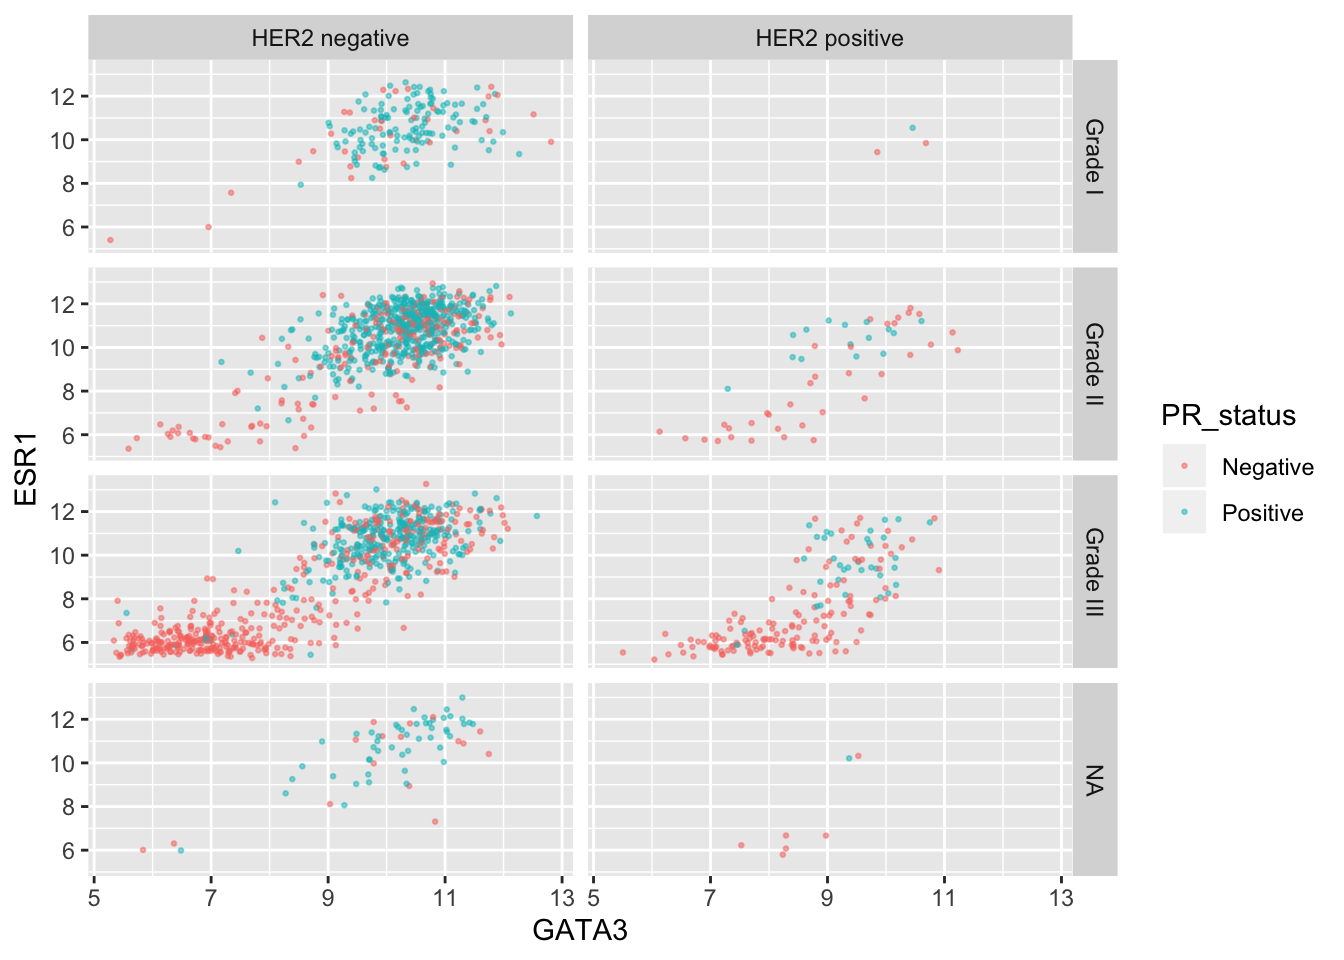
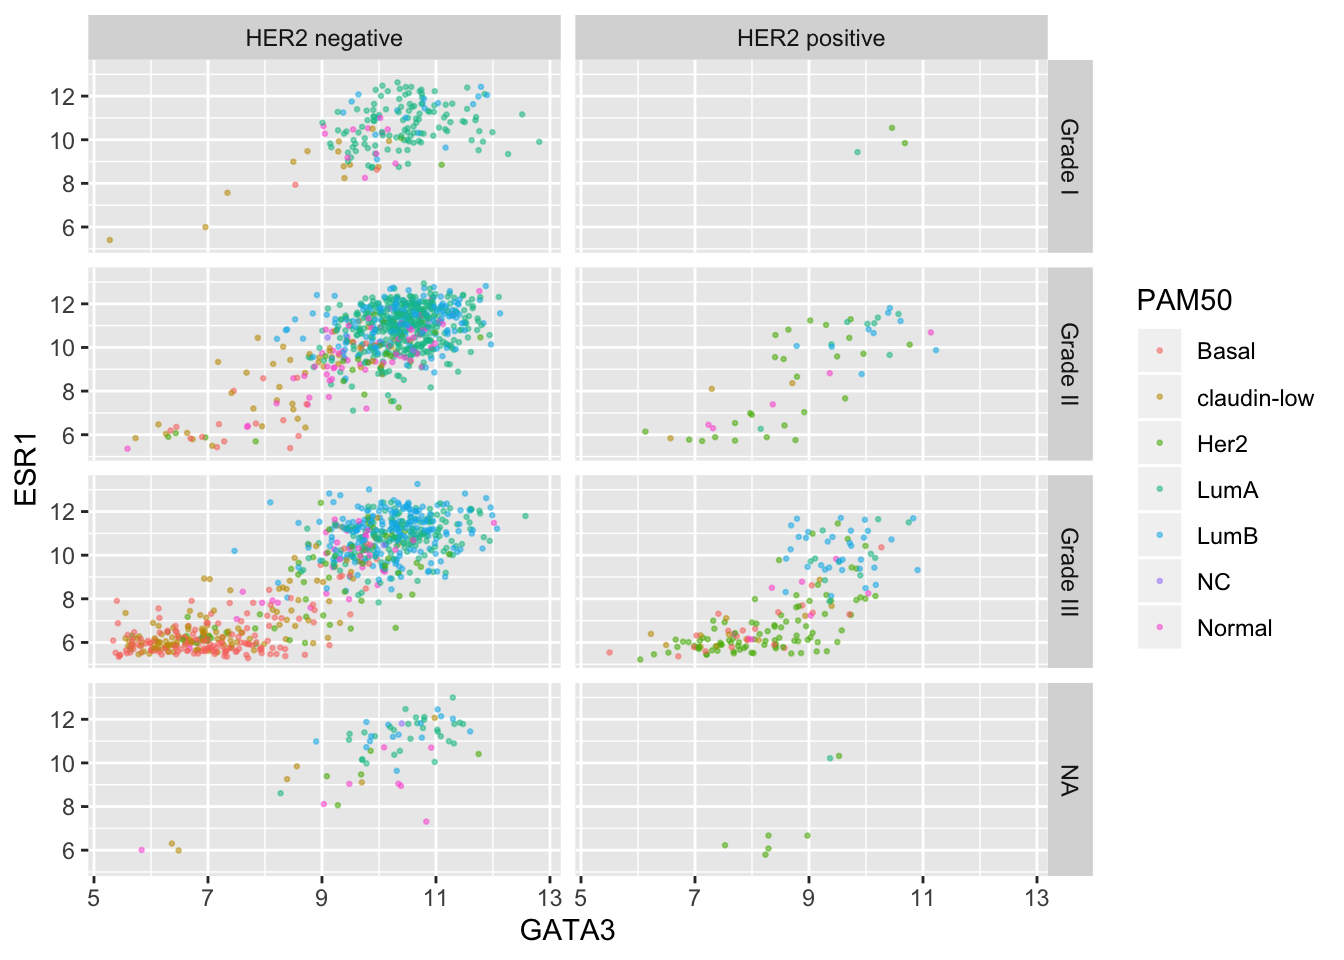
Faceted by PAM50 instead of PR status for final two facet_grid plots.

diff --git a/docs/week4.html b/docs/week4.html
@@ -1387,7 +1387,7 @@ Note the <code>first()</code>, <code>last()</code> and <code>n()</code> are only
   facet_grid(Neoplasm_histologic_grade ~ HER2_status)</code></pre>
 <p><img src="week4_files/figure-html/scatter_plot_10-1.png" width="672" /></p>
 <p>Again we can use colour aesthetics alongside faceting to add further information to our visualization.</p>
-<pre class="r"><code>ggplot(data = metabric, mapping = aes(x = GATA3, y = ESR1, colour = PR_status)) +
+<pre class="r"><code>ggplot(data = metabric, mapping = aes(x = GATA3, y = ESR1, colour = PAM50)) +
   geom_point(size = 0.5, alpha = 0.5) +
   facet_grid(Neoplasm_histologic_grade ~ HER2_status)</code></pre>
 <p><img src="week4_files/figure-html/scatter_plot_11-1.png" width="672" /></p>
@@ -1395,7 +1395,7 @@ Note the <code>first()</code>, <code>last()</code> and <code>n()</code> are only
 <pre class="r"><code>grade_labels &lt;- c(&quot;1&quot; = &quot;Grade I&quot;, &quot;2&quot; = &quot;Grade II&quot;, &quot;3&quot; = &quot;Grade III&quot;)
 her2_status_labels &lt;- c(&quot;Positive&quot; = &quot;HER2 positive&quot;, &quot;Negative&quot; = &quot;HER2 negative&quot;)
 
-ggplot(data = metabric, mapping = aes(x = GATA3, y = ESR1, colour = PR_status)) +
+ggplot(data = metabric, mapping = aes(x = GATA3, y = ESR1, colour = PAM50)) +
   geom_point(size = 0.5, alpha = 0.5) +
   facet_grid(Neoplasm_histologic_grade ~ HER2_status,
              labeller = labeller(
